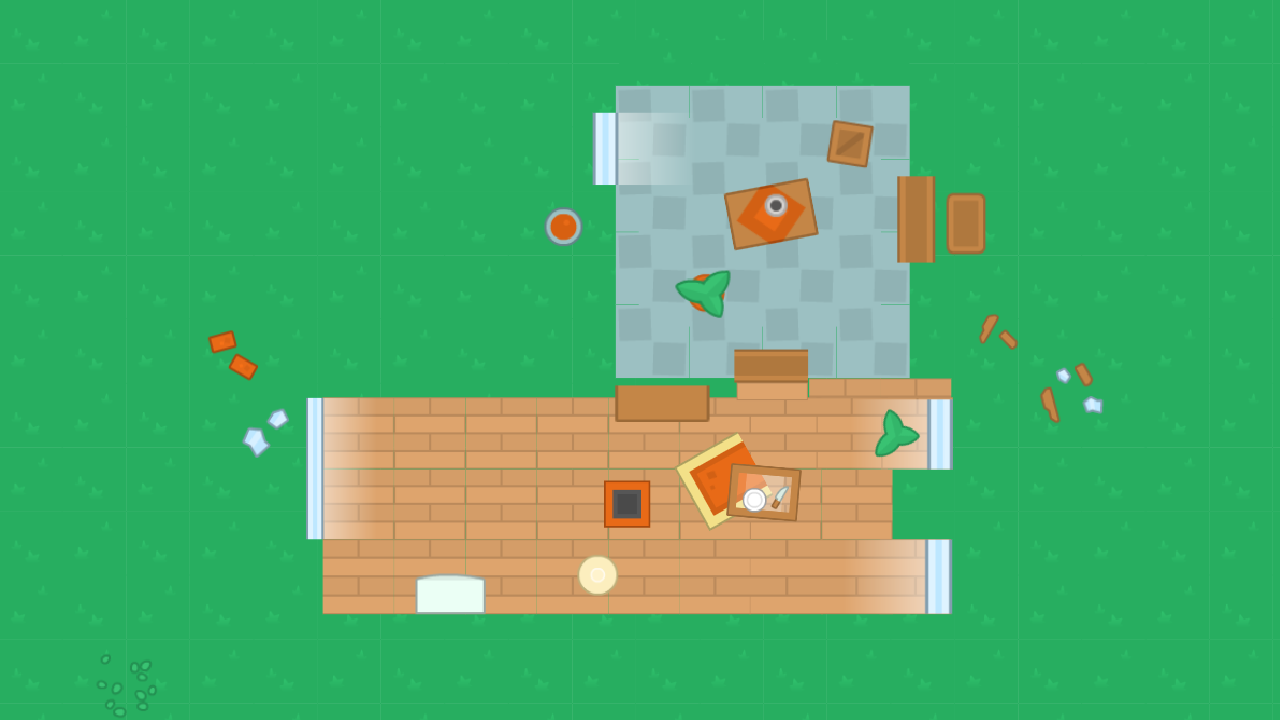
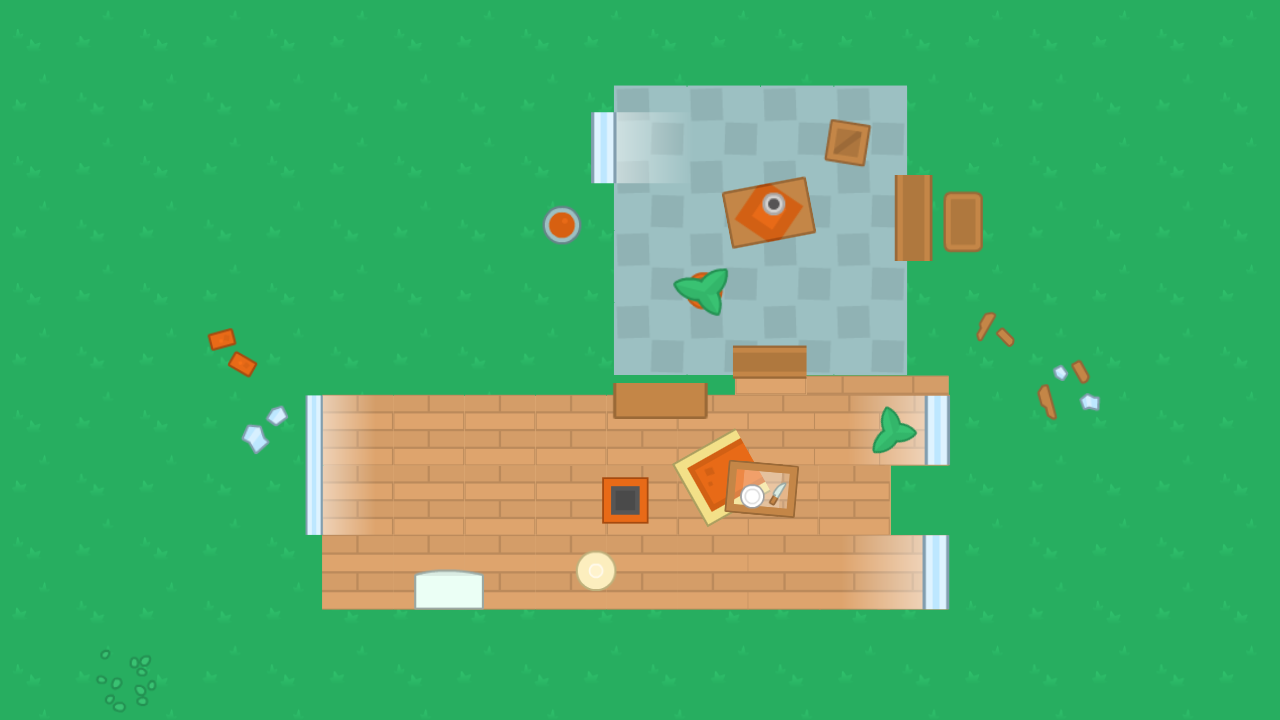
map_enviroment
- added walls
- added map skeleton

diff --git a/src/map.cpp b/src/map.cpp
@@ -4,22 +4,47 @@
 
 Map::Map() {
     background = {0}; // Initialize texture struct
+    // TODO: Add Texture2D wallTexture = {0}; to your Map class in map.h
+    wallTexture = {0}; // Initialize the new texture struct
 }
 
 void Map::Load() {
-    if (FileExists("game_screen_bg.png")) {
-        background = LoadTexture("game_screen_bg.png");
+    // Load the base map design
+    if (FileExists("map_design.jpg")) {
+        background = LoadTexture("map_design.jpg");
     } else {
         // Create a placeholder background if map_design.jpg is missing
         Image img = GenImageChecked(SCREEN_WIDTH, SCREEN_HEIGHT, 64, 64, DARKGRAY, GRAY);
         background = LoadTextureFromImage(img);
         UnloadImage(img);
     }
-    InitHidingSpots();
 
-    // Example obstacles (can be loaded from a file or defined procedurally)
-    // obstacles.push_back({300, 300, 100, 50}); // x, y, width, height
-    // obstacles.push_back({800, 400, 50, 150});
+    // Load the wall texture
+    if (FileExists("layer_1_bg.png")) {
+        // TODO: Load into the new wallTexture member you add to map.h
+        wallTexture = LoadTexture("layer_1_bg.png");
+    }
+
+    // Clear previous obstacles
+    obstacles.clear();
+
+    // Horizontal wall above kitchen
+    obstacles.push_back({236, 242, 394, 146});
+    obstacles.push_back({551, 169, 80, 74});
+    obstacles.push_back({630, 316, 78, 73});
+    // Top wall
+    obstacles.push_back({552, 21, 393, 74});
+    obstacles.push_back({867, 95, 77, 74});
+    // Reverse L Wall Top
+    obstacles.push_back({787, 317, 158, 73});
+    obstacles.push_back({866, 244, 79, 73});
+    // Hallway Boxes
+    obstacles.push_back({866, 462, 80, 73});
+    obstacles.push_back({563, 472, 49, 48});
+    // Bottom wall
+    obstacles.push_back({236, 533, 80, 75});
+    obstacles.push_back({236, 608, 708, 74});
+    InitHidingSpots();
 }
 
 void Map::InitHidingSpots() {
@@ -47,18 +72,27 @@ Vector2 Map::GetRandomHidingSpot() const {
 
 void Map::Unload() {
     if (background.id > 0) UnloadTexture(background);
+    // TODO: Unload wallTexture if it was loaded
+    if (wallTexture.id > 0) UnloadTexture(wallTexture);
 }
 
 void Map::Draw() {
+    // Draw the base map design first
     if (background.id > 0) {
         DrawTexture(background, 0, 0, WHITE);
     } else {
         ClearBackground(RAYWHITE); // Fallback if no texture
     }
 
+    // Draw the wall texture on top
+    // TODO: Draw wallTexture if it was loaded
+    if (wallTexture.id > 0) {
+        DrawTexture(wallTexture, 0, 0, WHITE);
+    }
+
     // Draw obstacles (for debugging or if they are simple visual elements)
     for (const auto& obs : obstacles) {
-        DrawRectangleRec(obs, Fade(BLACK, 0.5f));
+        DrawRectangleRec(obs, Fade(BLACK, 0.0f));
     }
 }
 

diff --git a/src/game_manager.cpp b/src/game_manager.cpp
@@ -156,6 +156,13 @@ void GameManager::UpdateInGame() {
     if (currentPhase == GamePhase::HIDING) {
         hidingPhaseElapsed += deltaTime;
 
+        // Option to skip hiding phase for debugging/testing
+        if (IsKeyPressed(KEY_SPACE)) {
+            TraceLog(LOG_INFO, "GAME: Skipping hiding phase.");
+            StartSeekingPhase();
+            return; // Exit update early to prevent further hiding phase logic this frame
+        }
+
         // Hiders find spots during the entire HIDING_PHASE_DURATION
         for (auto& hider : hiders) {
             if (!hider.isTagged) {
@@ -309,9 +316,6 @@ void GameManager::DrawInGame() {
     }
     EndMode2D();
 
-    // Draw UI elements in screen space
-    uiManager.DrawInGameHUD(gameTimer, hidersRemaining, player.sprintValue);
-
     // Draw the black overlay with vision cone
     Vector2 screenPos = GetWorldToScreen2D(player.position, camera);
     float radius = PLAYER_VISION_RADIUS * camera.zoom;
@@ -339,4 +343,7 @@ void GameManager::DrawInGame() {
             WHITE
         );
     EndBlendMode();
+
+    // Draw UI elements in screen space
+    uiManager.DrawInGameHUD(gameTimer, hidersRemaining, player.sprintValue);
 }

diff --git a/include/map.h b/include/map.h
@@ -6,6 +6,7 @@
 class Map {
 public:
     Texture2D background;
+    Texture2D wallTexture;
     std::vector<Rectangle> obstacles; // Simple rectangular obstacles
     std::vector<Vector2> hidingSpots;
 
